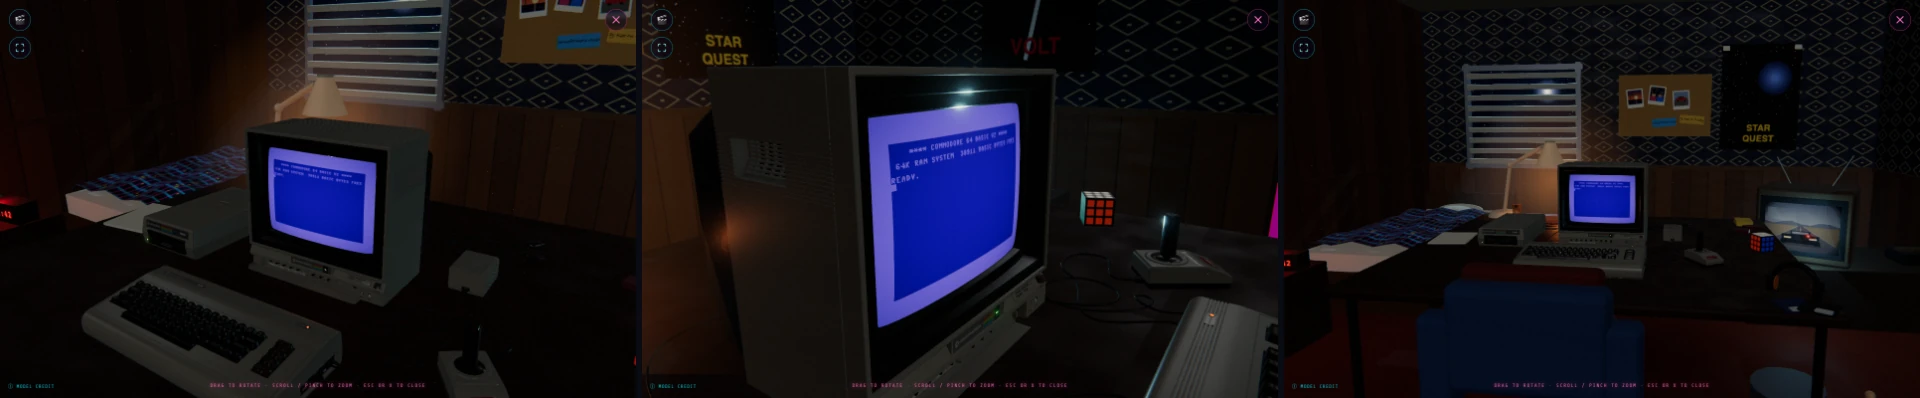
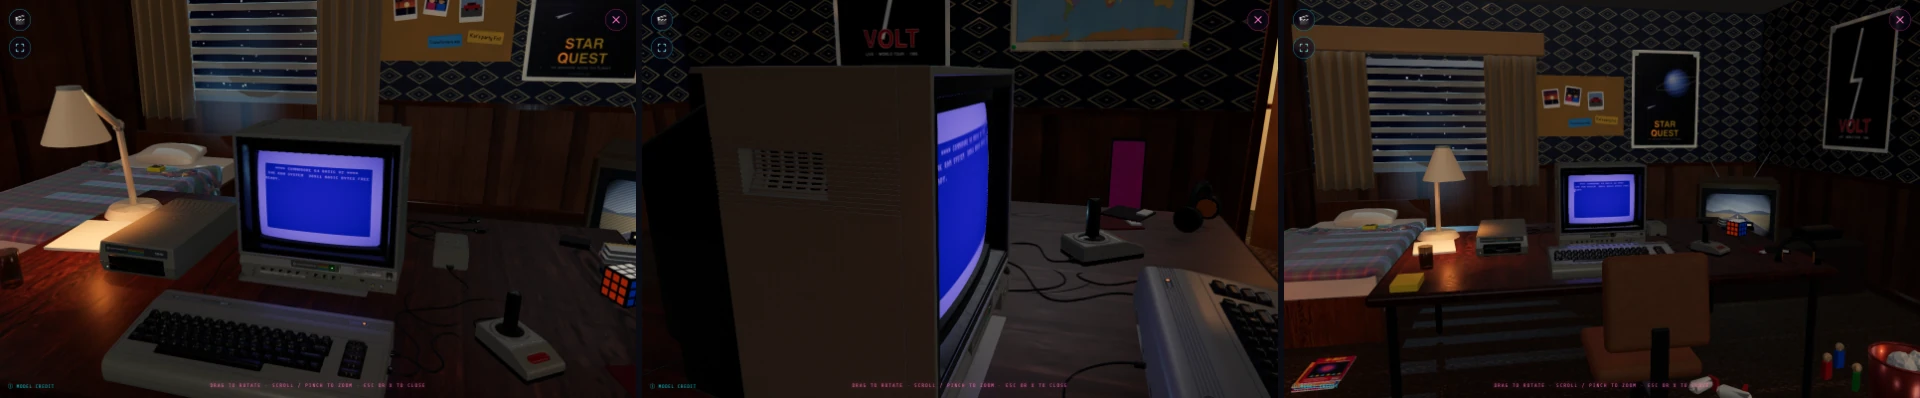
Re-shoot the 80s Bedroom guide strip

diff --git a/src/sw.js b/src/sw.js
@@ -29,7 +29,7 @@ precache(self.__WB_MANIFEST);
 // GLBs, and the guide screenshots the docs embed. Versioned so bumping a suffix
 // drops stale copies on activate.
 const MODEL_CACHE = 'c64emu-models-v1';
-const GUIDE_CACHE = 'c64emu-guide-v1';
+const GUIDE_CACHE = 'c64emu-guide-v2';
 const RUNTIME_CACHES = [MODEL_CACHE, GUIDE_CACHE];
 
 // Network-only analytics markers (empty pages in public/, beacons in main.js).

diff --git a/docs/GUIDE-LOOKS.md b/docs/GUIDE-LOOKS.md
@@ -182,7 +182,7 @@ them with **Previous** and **Next**.
 
 **80s Bedroom**: A teenager's bedroom at night, the C64 under an amber lamp.
 
-![Three views of the 80s Bedroom scene: a messy 1980s teenager's bedroom at night: the C64 on a faux-wood desk under an amber lamp, a plaid-duvet bed, venetian blinds, taped-up posters and a corkboard, a wood-grain CRT, a boombox and scattered clutter.](/guide/retro-vibes-80s-bedroom.webp)
+![Three views of the 80s Bedroom scene: a 1980s teenager's bedroom at night, the C64 on a wooden desk under an amber lamp, a plaid-duvet bed, venetian blinds with stars beyond, posters and a corkboard on patterned wallpaper, a wood-grain TV beside the desk and clutter on the floor.](/guide/retro-vibes-80s-bedroom.webp)
 
 <!-- /gallery -->
 
